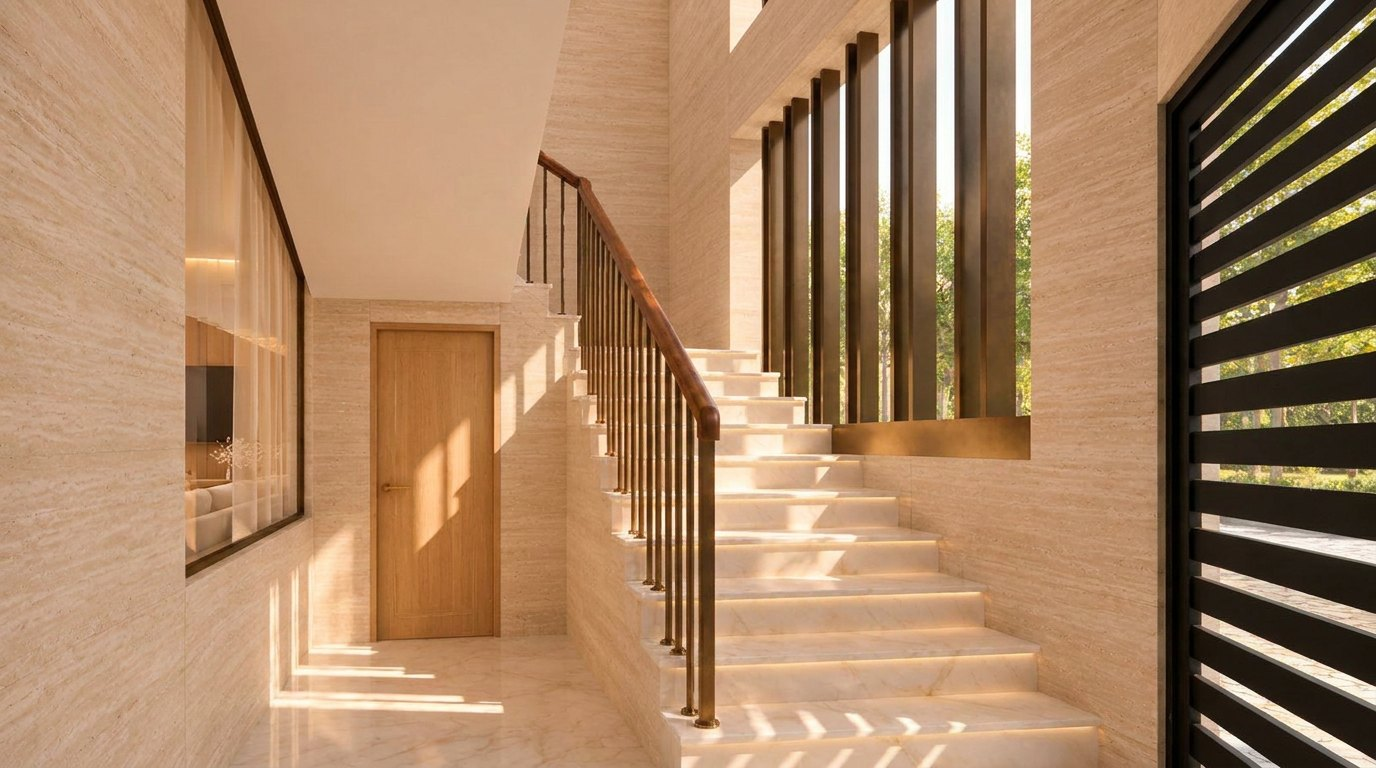
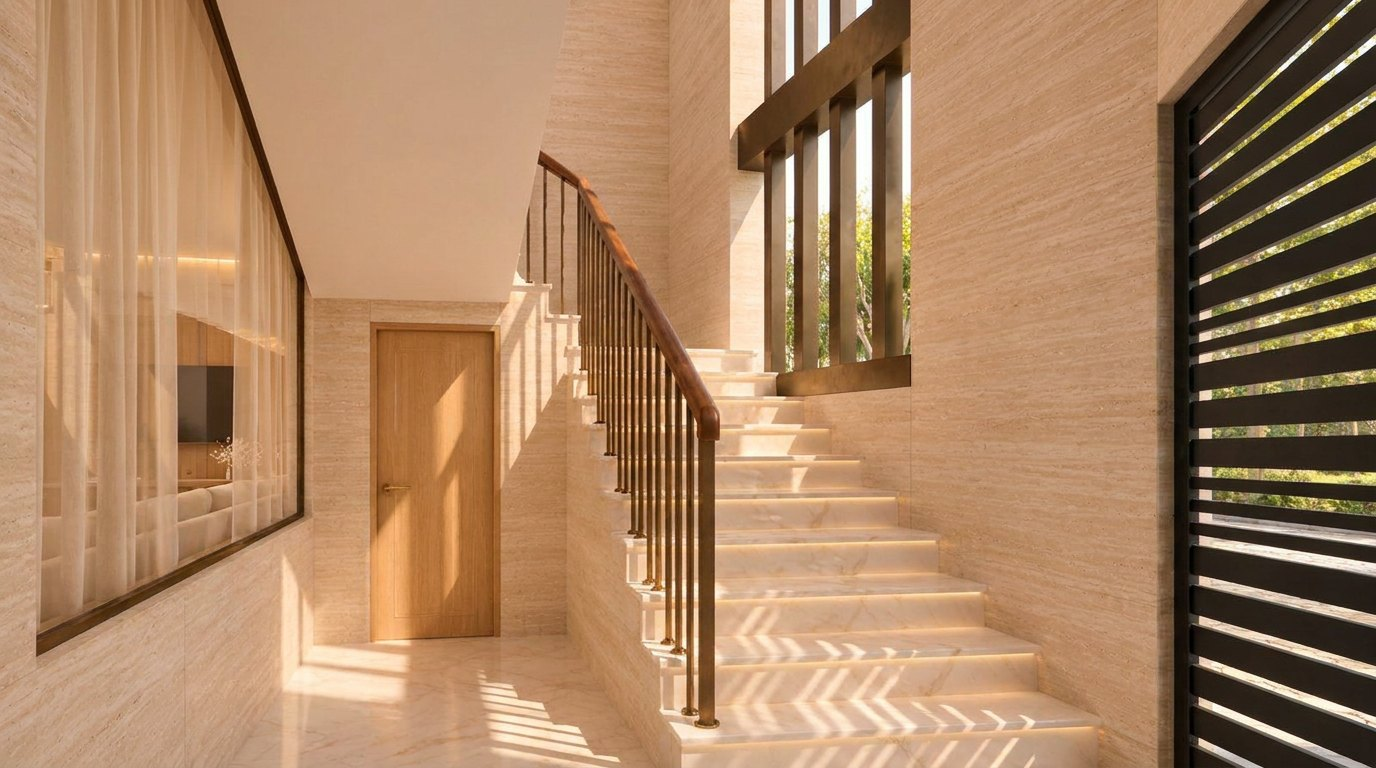
Karbala 5.70: render F with the bar opening starting at 240

diff --git a/karbala-570/index.html b/karbala-570/index.html
@@ -272,7 +272,7 @@ function render(){
   <section id="model"><div class="wrap"><h2>${t.model_t}</h2><p class="sub">${t.model_s}</p>
     <div class="frame3d" id="f3d" style="background-image:url(${IMG}model3d.jpg)"><div class="start"><button class="btn" id="go3d">${t.load3d}</button></div></div>
     <div class="cta" style="margin-top:12px"><a class="btn ghost" href="model3d.html?lang=${L}">${t.full} ⤢</a></div></div></section>
-  <footer><div class="wrap">${t.foot} · v14</div></footer>`;
+  <footer><div class="wrap">${t.foot} · v15</div></footer>`;
   $('#sheet').innerHTML=`<div style="display:flex;justify-content:space-between;align-items:center;margin-bottom:6px"><b>${t.set}</b><button class="ib" data-close>${t.close}</button></div>
     <div class="srow"><span>${t.lang}</span><div class="seg">${Object.keys(TX).map(k=>`<button data-setlang="${k}" class="${k===L?'on':''}">${TX[k].name}</button>`).join('')}</div></div>
     <div class="srow"><span>${t.theme}</span><div class="seg"><button data-theme="dark" class="${theme==='dark'?'on':''}">${t.dark}</button><button data-theme="light" class="${theme==='light'?'on':''}">${t.light}</button></div></div>
